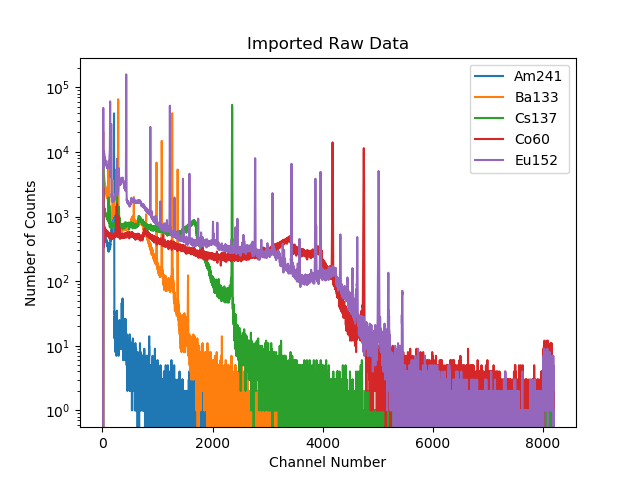
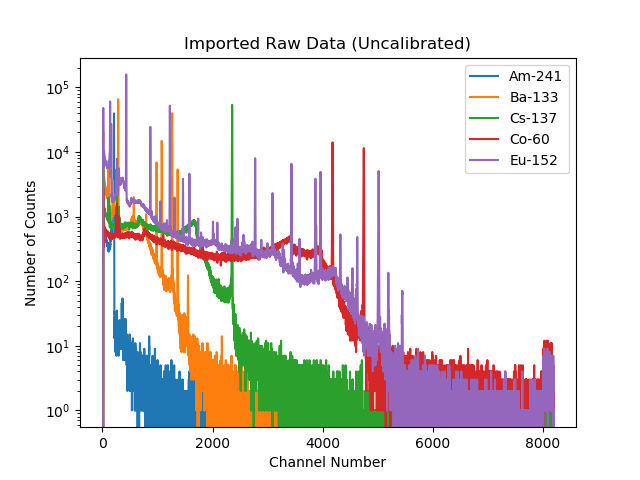
added new function called find_nearest

diff --git a/code/data_analysis.py b/code/data_analysis.py
@@ -57,6 +57,23 @@ plt.semilogy(chan, Eu152, label='Eu-152')
 plt.legend()
 plt.xlabel('Channel Number')
 plt.ylabel('Number of Counts')
-plt.title('Imported Raw Data')
+plt.title('Imported Raw Data (Uncalibrated)')
 plt.savefig('/Users/margobatie/repos/NE204_lab0/images/rawdata.png')
-plt.show()
+#plt.show()
+plt.close()
+
+#plot of calibrated data_analysis
+plt.semilogy(energies, Am241, label='Am-241')
+plt.semilogy(energies, Cs137, label='Cs-137')
+plt.legend()
+plt.xlabel('Energy (keV)')
+plt.ylabel('Number of Counts')
+plt.title('Calibrated Plot of Am-241 and Cs-137')
+plt.savefig('/Users/margobatie/repos/NE204_lab0/images/cal_AmCs.png')
+plt.close()
+#plt.show()
+
+from find_nearest import find_near
+#intensity of 80.99 (32.9%) and 79.61 (2.6%)
+Ba133_energies=[80.9979,276.3989,302.8508, 356.0129,383.8485]
+dE=20

diff --git a/code/find_nearest.py b/code/find_nearest.py
@@ -1,0 +1,13 @@
+import numpy as np
+
+def find_near(array,value):
+
+    """
+    insert an array you're looking for a value near
+    and the value you're looking for
+
+    outputs teh index of that array value as well
+    as the value itself
+    """
+    idx = (np.abs(array-value)).argmin()
+    return (idx,array[idx])
